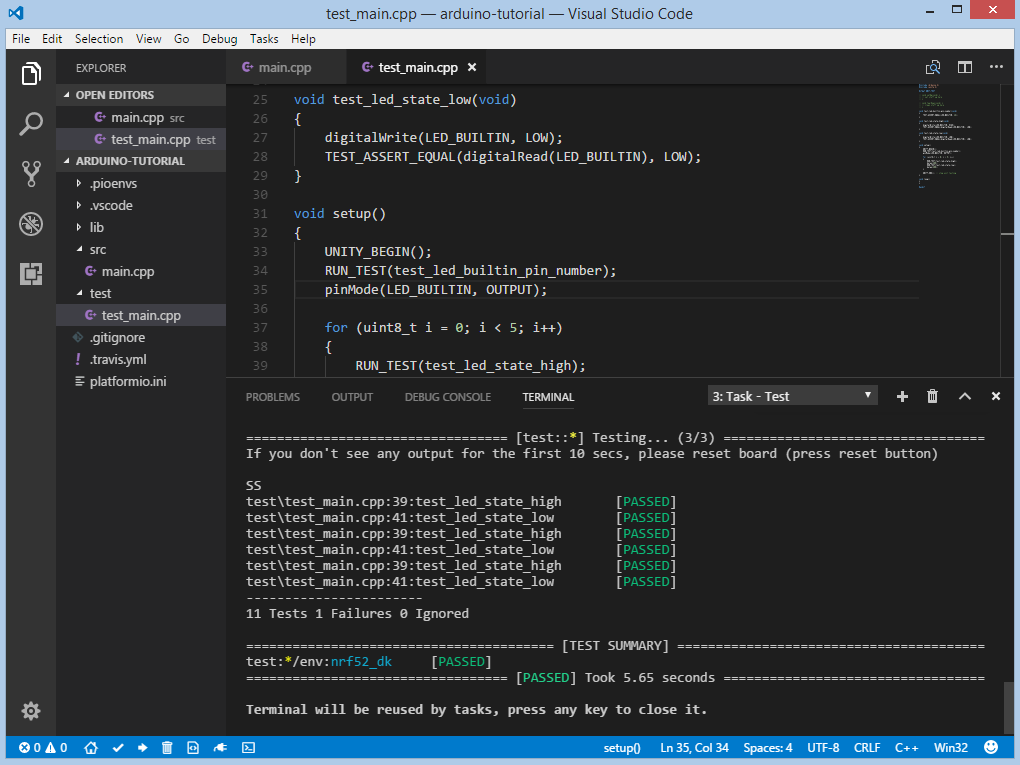
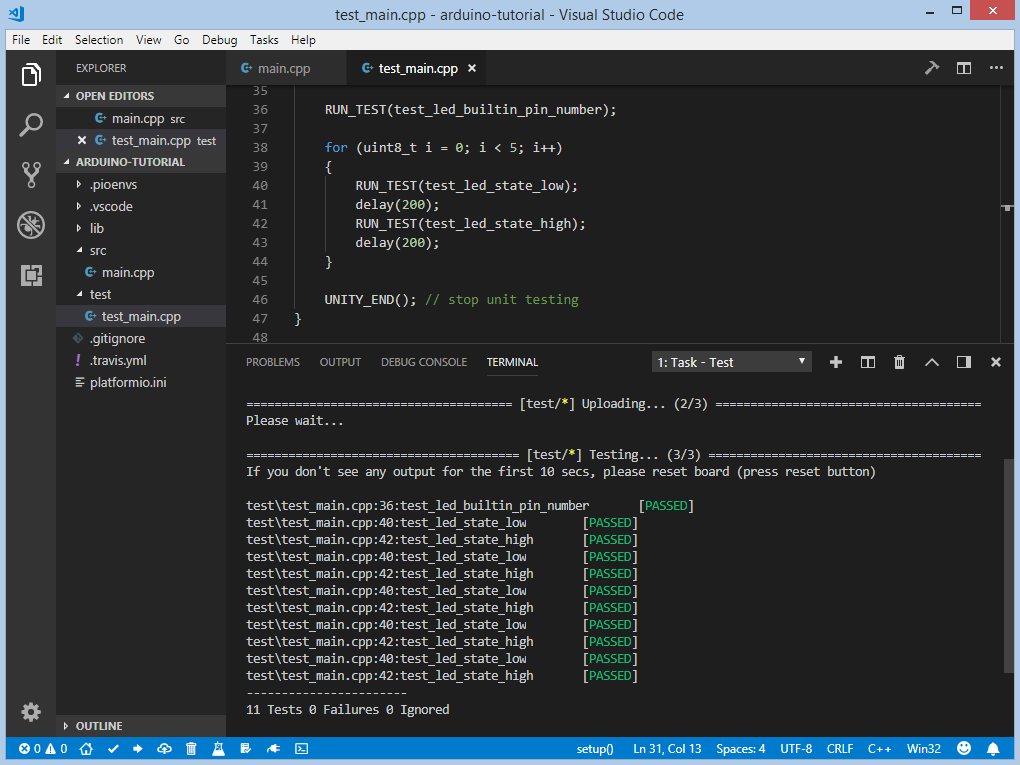
Improve Nordic nRF52 tutorial // Issue #33

diff --git a/tutorials/nordicnrf52/arduino_debugging_unit_testing.rst b/tutorials/nordicnrf52/arduino_debugging_unit_testing.rst
@@ -114,7 +114,8 @@ Let’s implement some basic tests for blinking routine:
 * ``test_led_state_low`` tests functions ``digitalWrite`` and ``digitalRead`` with ``LOW`` value
 
 .. note::
-  Please note that LEDs on this board are active ``LOW``, that means we need to write logical ``0`` to illuminate the LED
+  * LEDs on this board are active ``LOW``, so we need to write logical ``0`` to illuminate the LED
+  * At the moment there is an issue with the function ``digitalRead`` which always returns ``LOW``
 
 .. code-block:: cpp
 
@@ -150,6 +151,7 @@ Let’s implement some basic tests for blinking routine:
 
     void setup()
     {
+        delay(2000);
         UNITY_BEGIN();
         RUN_TEST(test_led_builtin_pin_number);
 
